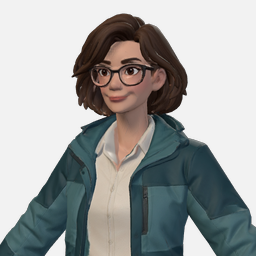
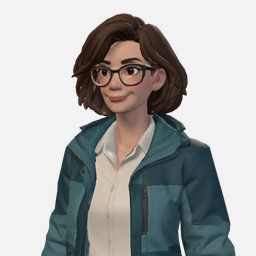
Pair corrected Adair body with refreshed native portrait

diff --git a/docs/design/ART_DIRECTION.md b/docs/design/ART_DIRECTION.md
@@ -308,7 +308,7 @@ This section is the live provenance/disposition ledger within the authorized doc
 | Ironwood | Static, collisionless presentation mesh with disconnected/non-manifold geometry. Do not deform it or use it as collision; material, workyard, arrival and night presentation remain open. |
 | Tether machine | Missing chains, clamps, runes, brass and true emissive channel; ring is zero-thickness. These are geometry/material dependencies. Current staging is **19.5 m** around the **5.8 m** Veridian; 15 m is retired. |
 | NPC board/cast | The 24-subject board excluded the Warden. At the ledger snapshot 22 bodies were rigged and 15 placed. Tam/Old Bram body-gender allocation, Bram/Old Bram naming, nearly-black “silver” hair, limited male variation, fused-body hair and missing captain accessory are known constraints. The lost traveler/merchant rigs were explicitly accepted as closed and are not required unique bodies. |
-| Adair identity candidate (OFF) | Original agent-drafted, coordinator-inspected reference `docs/art/reference/npc-identity/adair-front-agent-v1.png`; existing Meshy licence, image task `01a12ba9-8dea-7093-a169-b6a195cb1e2c`, rig task `01a12bb2-f69f-75de-94e5-41dd21a2e47b`. Preserves Surveyor Adair's researcher identity and 1.70 m human scale. Candidate `assets/characters/npc_identity/water_adair/adair_lod0.glb` uses the unchanged local humanoid full-bake pipeline; CPU structure confirms 24 joints and the five required gameplay clips (plus chop/defeated), not deformation acceptance. Settings, reference origin, licence authorization and preparation are in adjacent `provenance.json`. The shared researcher body, Iona and all six prior cloth candidates are preserved. A coordinator-reviewed Adair-only CPU postprocessor applies a measured rest-local arm bias to both upper-arm rotation tracks across all seven clips; adjacent provenance records the exact upstream/output, recipe and postprocessor bindings. Original rest/mesh/skin/material data and all other channels are preserved. Production portrait `assets/ui/portraits/npc_identity_water_adair_v1.png`, authored before this correction at source commit `78c8fb4001bbb9733a4afd7bac7cffbfe648e4eb`, is preserved as previous-candidate evidence and requires refresh from the corrected body. Global and candidate gates remain OFF; corrected native stance/deformation review, portrait refresh, matched High/Medium in-world captures and Claude code-blind judgment remain PENDING. |
+| Adair identity candidate (OFF) | Original agent-drafted, coordinator-inspected reference `docs/art/reference/npc-identity/adair-front-agent-v1.png`; existing Meshy licence, image task `01a12ba9-8dea-7093-a169-b6a195cb1e2c`, rig task `01a12bb2-f69f-75de-94e5-41dd21a2e47b`. Preserves Surveyor Adair's researcher identity and 1.70 m human scale. Candidate `assets/characters/npc_identity/water_adair/adair_lod0.glb` uses the unchanged local humanoid full-bake pipeline; CPU structure confirms 24 joints and the five required gameplay clips (plus chop/defeated), not deformation acceptance. Settings, reference origin, licence authorization and preparation are in adjacent `provenance.json`. The shared researcher body, Iona and all six prior cloth candidates are preserved. A coordinator-reviewed Adair-only CPU postprocessor applies a measured rest-local arm bias to both upper-arm rotation tracks across all seven clips; adjacent provenance records the exact upstream/output, recipe and postprocessor bindings. Original rest/mesh/skin/material data and all other channels are preserved. Matching production portrait `assets/ui/portraits/npc_identity_water_adair_v1.png` was refreshed from the corrected body at source commit `6a074f955ecaefc17678e8e3e6c5d83ff52da195`; exact model/portrait bindings are in adjacent provenance. Coordinator native review passed scale and sampled poses across 56 frames (seven clips, four phases, front/side), fixing the idle A-pose failure. Global and candidate gates remain OFF; continuous motion beyond those samples, matched High/Medium in-world captures and Claude code-blind judgment remain PENDING. |
 | Historical references | Owner-board/generated outputs retain their recorded proprietary or owner-licensed status. No reference image is an export asset or tracing source. |
 | Phase 2 regional shiny colourways (P2-030) | Codex-authored HSV repaints of the thirteen installed Aquaryn, Cannonback, Riptusk, Tidecoil, Voltwig, Staticub, Voltarach, Pebbik, Fulgocobra, Stormcapra, Solmane, Cliffspike and Breezetail GLB albedos, prepared 2026-09-28 with `tools/repaint_creature_textures.py` and `data/creatures/four_biome_colourways.json`. No acquisition, generated mesh, external pixels or purchase. Licence and redistribution limits remain those of each installed source, as recorded in `archive/docs/specs-2026-09-19/ASSET_LEDGER.md`; this transformation grants no new rights. Inspected regional roster boards supply direction only. Cream markings and dark source detail are preserved. New `*_extracted_base_color_shiny.png` assets use VRAM compression and remain behind `phase2_shiny_finish_enabled=false` pending production-frame review; ordinary colourways are unchanged. |
 | Galecrest complete rebuild | Owner-directed replacement on main (Codex `4dea7705c`, landed as `a2e8d65db`). Inspected project-authored imagegen reference and Meshy task `01a0e4a9-3cfa-7210-b6d6-70f332337328` on the existing licence; new mesh/UV atlas, measured bird rig, six clips, anatomically masked colourways and model-rendered portrait; established 3.50 m scale kept. Reference, raw source, settings and preparation scripts: `assets/creatures/tetherbound/galecrest/{reference,source}/rebuild/`. Scoped blind review passes anatomy, face/neck and production readability on 12 day/night frames; continuous motion/contact is not certified, and feather highlights and alpha night wing midtones remain polish (`ralph/reports/VISUAL/galecrest-rebuild/`). The commit's `data/config/companion_presence.json` head-tracking override did **not** land, because main lacks the code that reads it; head tracking uses the shared defaults. No Cloudreach criterion closes. |
